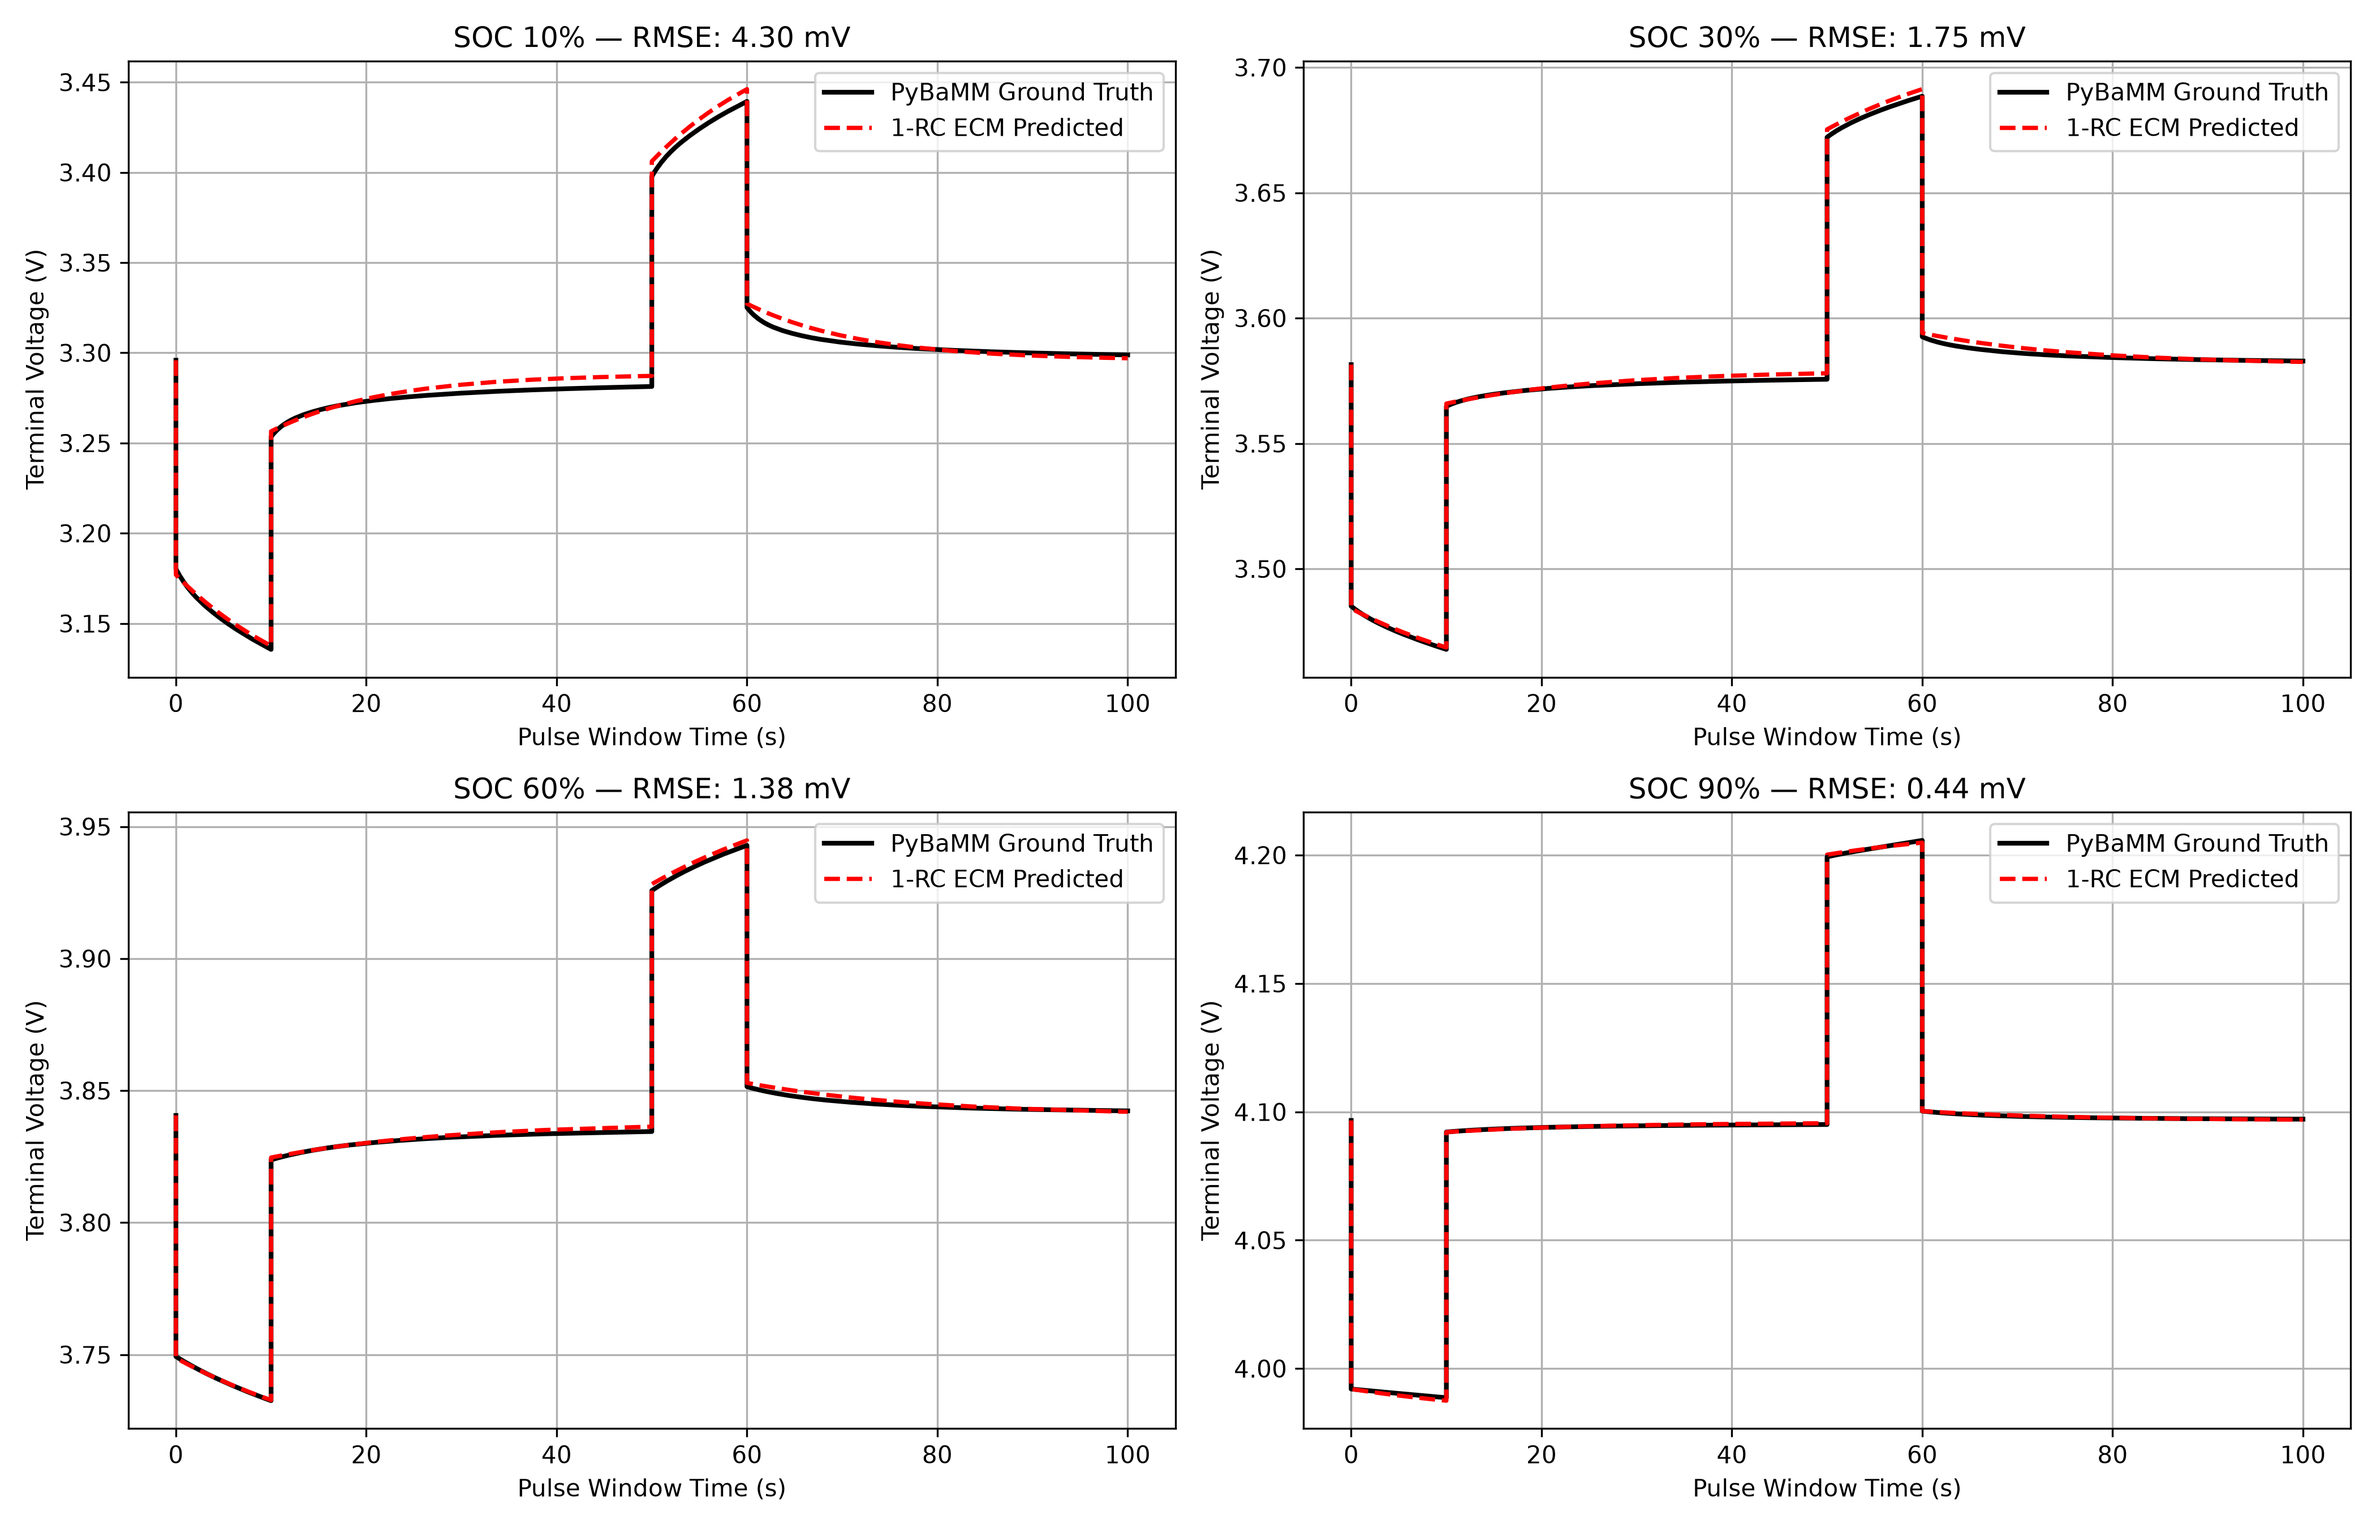
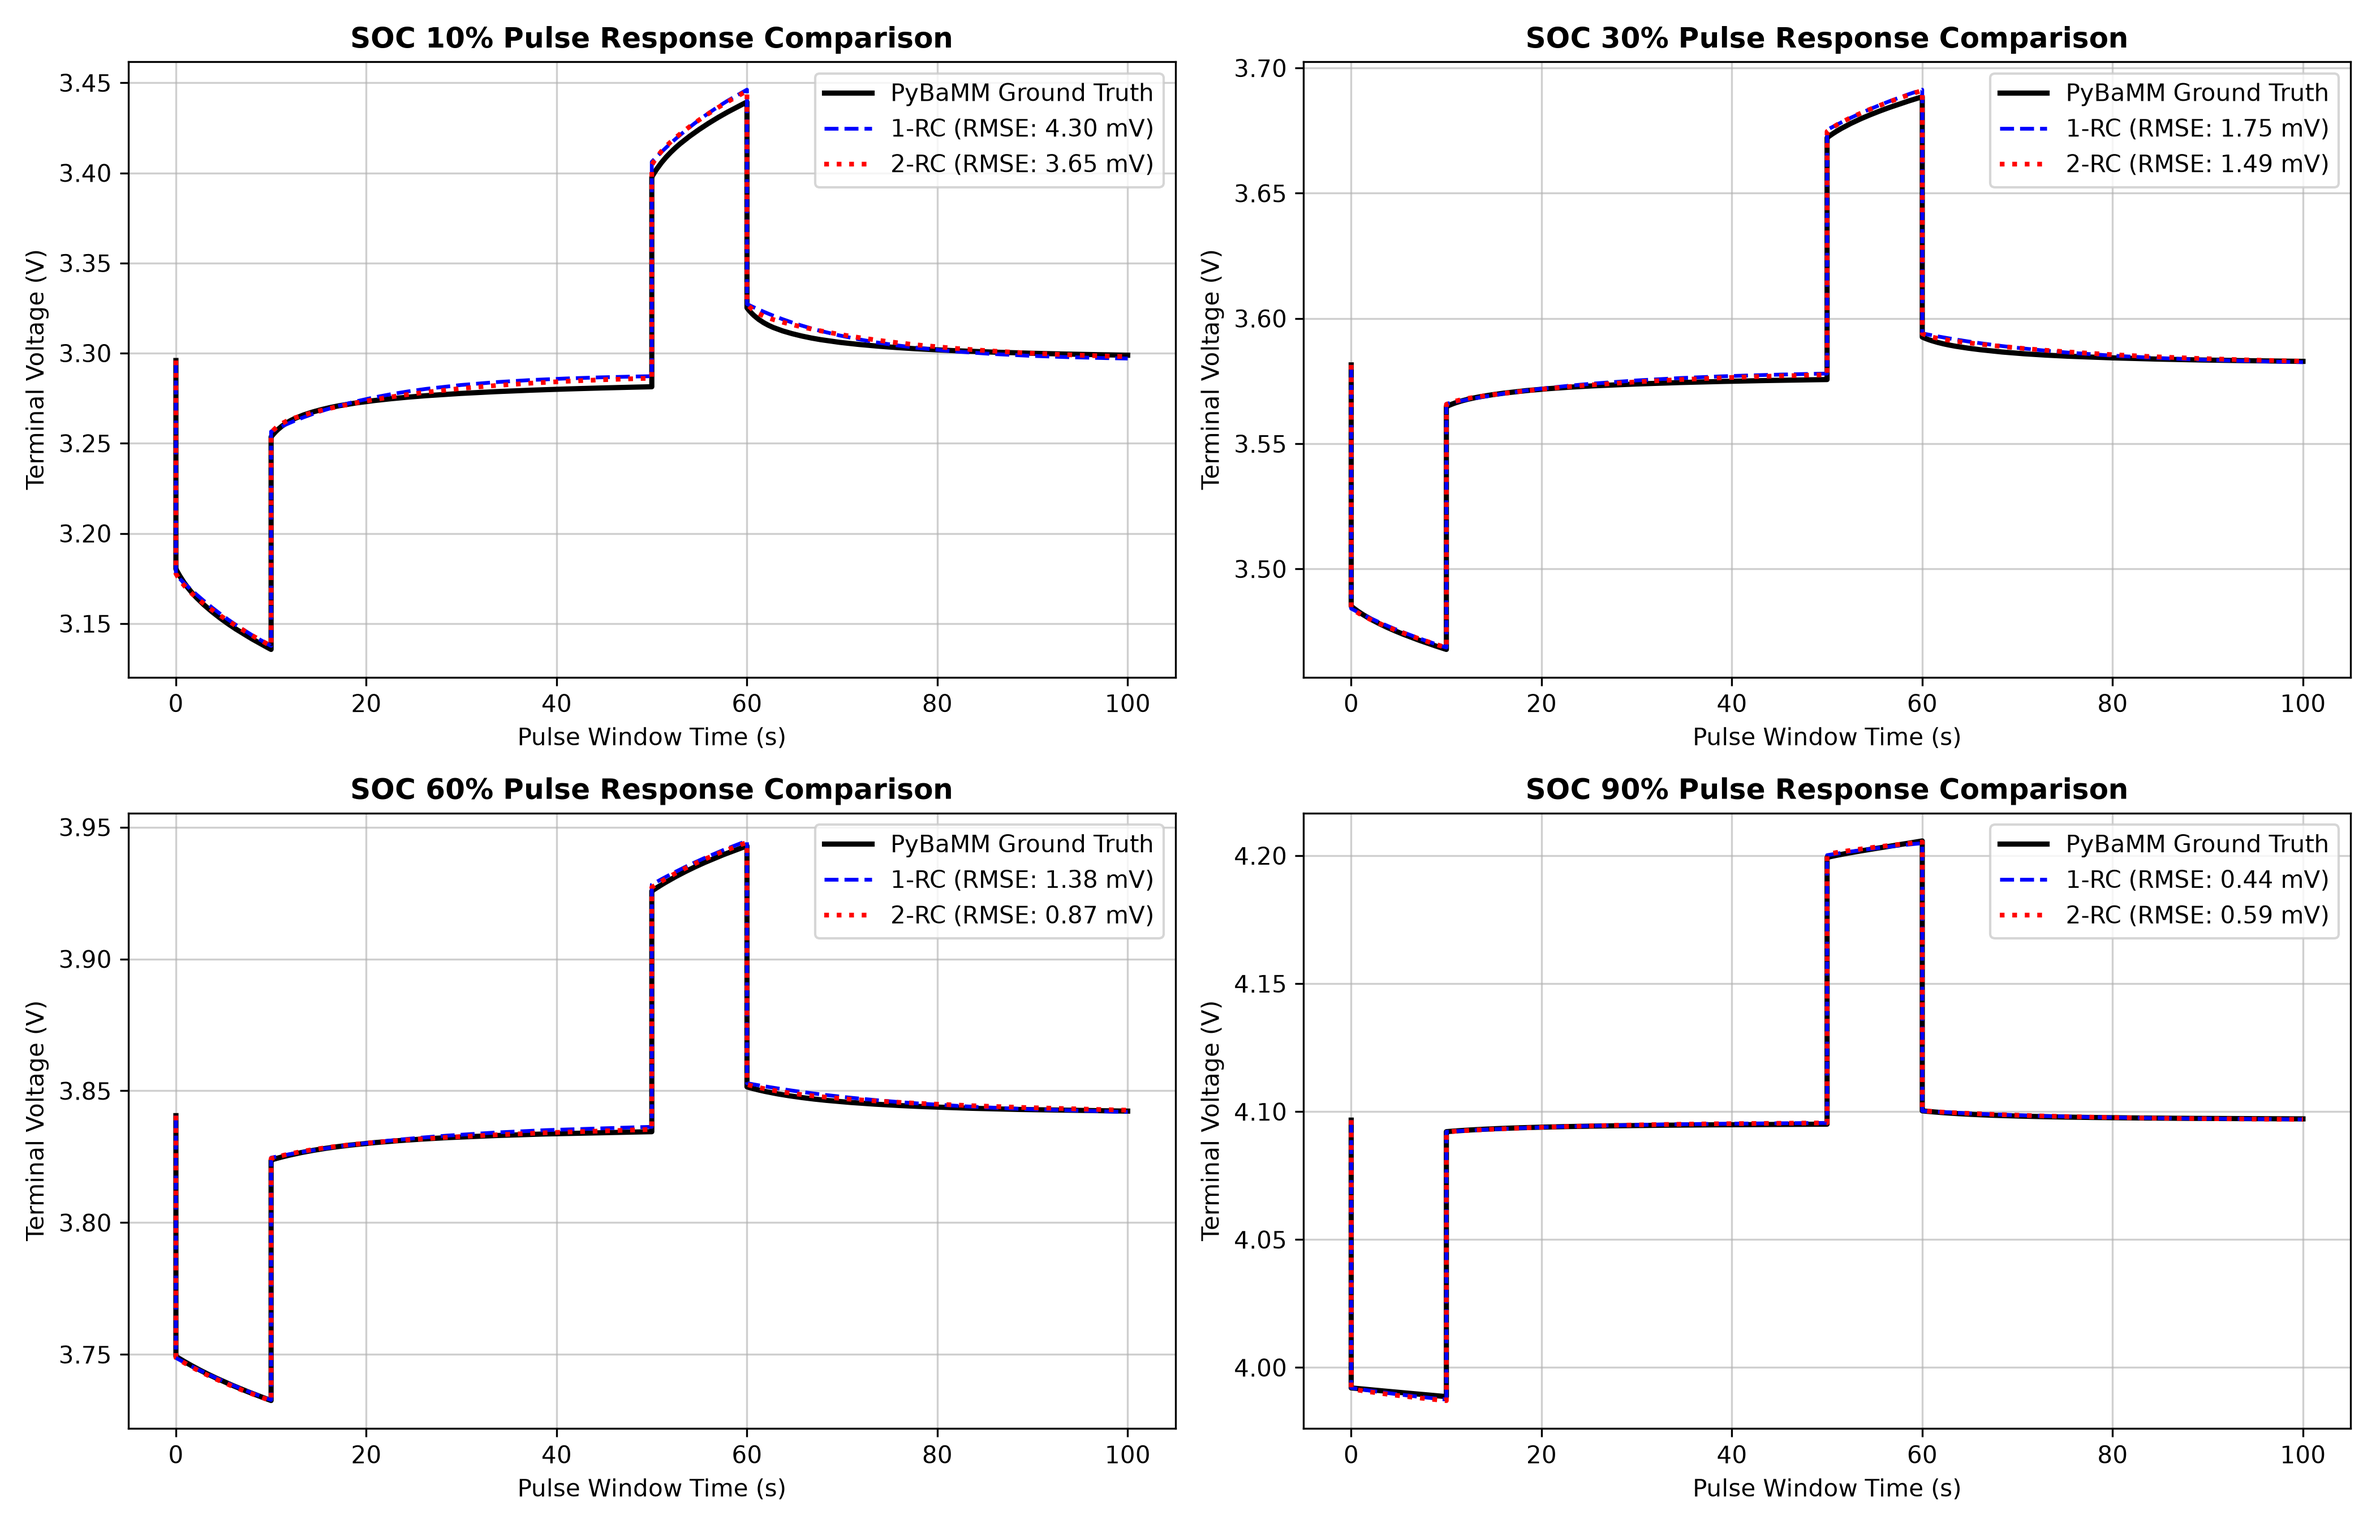
Minor refactoring

diff --git a/script/ocv_soc.py b/script/ocv_soc.py
@@ -96,6 +96,8 @@ ax3.legend(loc="lower right")
 # ---------------------------------------------------------
 # Extract ground-truth OCV per soc_point for verification
 ocv_gt = data.groupby("soc_point")["ocv_true"].first().reset_index().sort_values("soc_point")
+soc_points = np.arange(0.1, 1.0, 0.1)
+ocv_points = ocv_interp(soc_points)
 
 ax4 = axs[1, 1]
 soc_dense = np.linspace(ocv_summary["soc"].min(), ocv_summary["soc"].max(), 200)
@@ -119,32 +121,16 @@ ax4.plot(
     label="Extracted OCV Fit (Rest)",
 )
 
-# 3. Highlight Evaluated Target SOC Operating Points (0.1, 0.3, 0.6, 0.9)
-for soc_val in target_socs:
-    ocv_est_v = float(ocv_interp(soc_val))
-    
-    # Find closest ground-truth OCV value to compute error in mV
-    idx_closest = (ocv_gt["soc_point"] - soc_val).abs().idxmin()
-    ocv_gt_v = float(ocv_gt.loc[idx_closest, "ocv_true"])
-    err_mv = (ocv_est_v - ocv_gt_v) * 1000
-
-    ax4.plot(
-        soc_val * 100,
-        ocv_est_v,
-        "o",
-        color=colors[soc_val],
-        ms=9,
-        zorder=5,
-        label=f"SOC {int(soc_val*100)}% (err: {err_mv:+.1f} mV)",
-    )
-    ax4.annotate(
-        f"{ocv_est_v:.3f}V",
-        (soc_val * 100, ocv_est_v),
-        textcoords="offset points",
-        xytext=(-15, 10),
-        fontweight="bold",
-        color=colors[soc_val],
-    )
+# 3. Mark extracted OCV values at every SOC point from 0.1 to 0.9
+ax4.plot(
+    soc_points * 100,
+    ocv_points,
+    "o",
+    color="tab:red",
+    ms=6,
+    zorder=5,
+    label="Extracted OCV points (10% SOC steps)",
+)
 
 ax4.set_xlabel("State of Charge (%)")
 ax4.set_ylabel("Equilibrium OCV (V)")

diff --git a/script/validation.py b/script/validation.py
@@ -129,7 +129,7 @@ for soc_pt in soc_points:
 
 metrics_df = pd.DataFrame(metrics)
 print("\n" + "=" * 86)
-print("       1-RC vs 2-RC (DAS & SAMANTA) ECM PARAMETER VALIDATION COMPARISON")
+print("       1-RC vs 2-RC  ECM PARAMETER VALIDATION COMPARISON")
 print("=" * 86)
 print(metrics_df.to_string(index=False))
 print("-" * 86)
@@ -153,7 +153,7 @@ for idx, soc_val in enumerate(available_targets):
 
     ax.plot(tr["t_rel"], tr["V_true"], "k-", lw=2.2, label="PyBaMM Ground Truth")
     ax.plot(tr["t_rel"], tr["V_1rc"], "b--", lw=1.6, label=f"1-RC (RMSE: {tr['rmse_1rc']:.2f} mV)")
-    ax.plot(tr["t_rel"], tr["V_2rc"], "r:", lw=2.0, label=f"2-RC Das & Samanta (RMSE: {tr['rmse_2rc']:.2f} mV)")
+    ax.plot(tr["t_rel"], tr["V_2rc"], "r:", lw=2.0, label=f"2-RC (RMSE: {tr['rmse_2rc']:.2f} mV)")
 
     ax.set_title(f"SOC {int(soc_val*100)}% Pulse Response Comparison", fontweight="bold")
     ax.set_xlabel("Pulse Window Time (s)")
